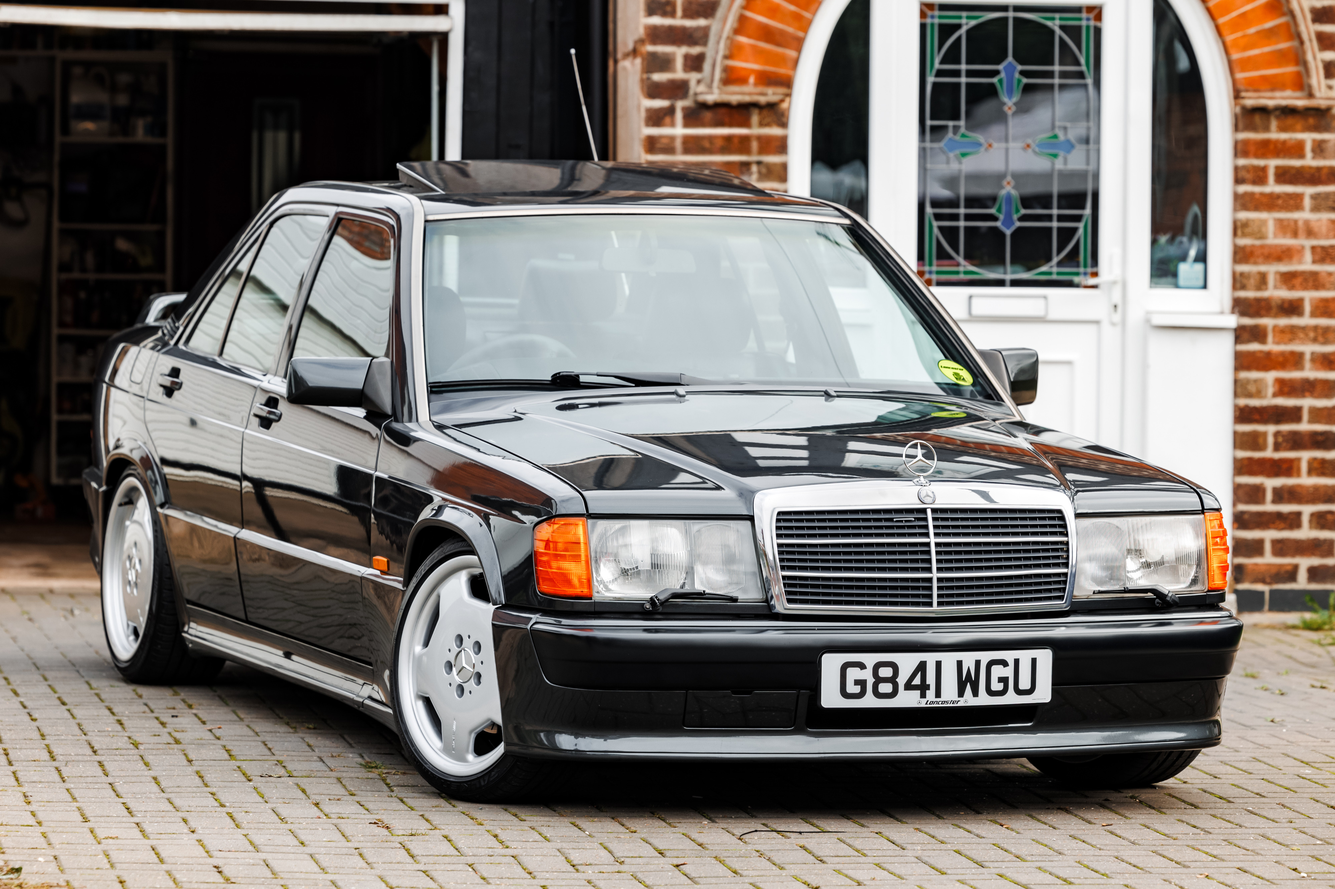
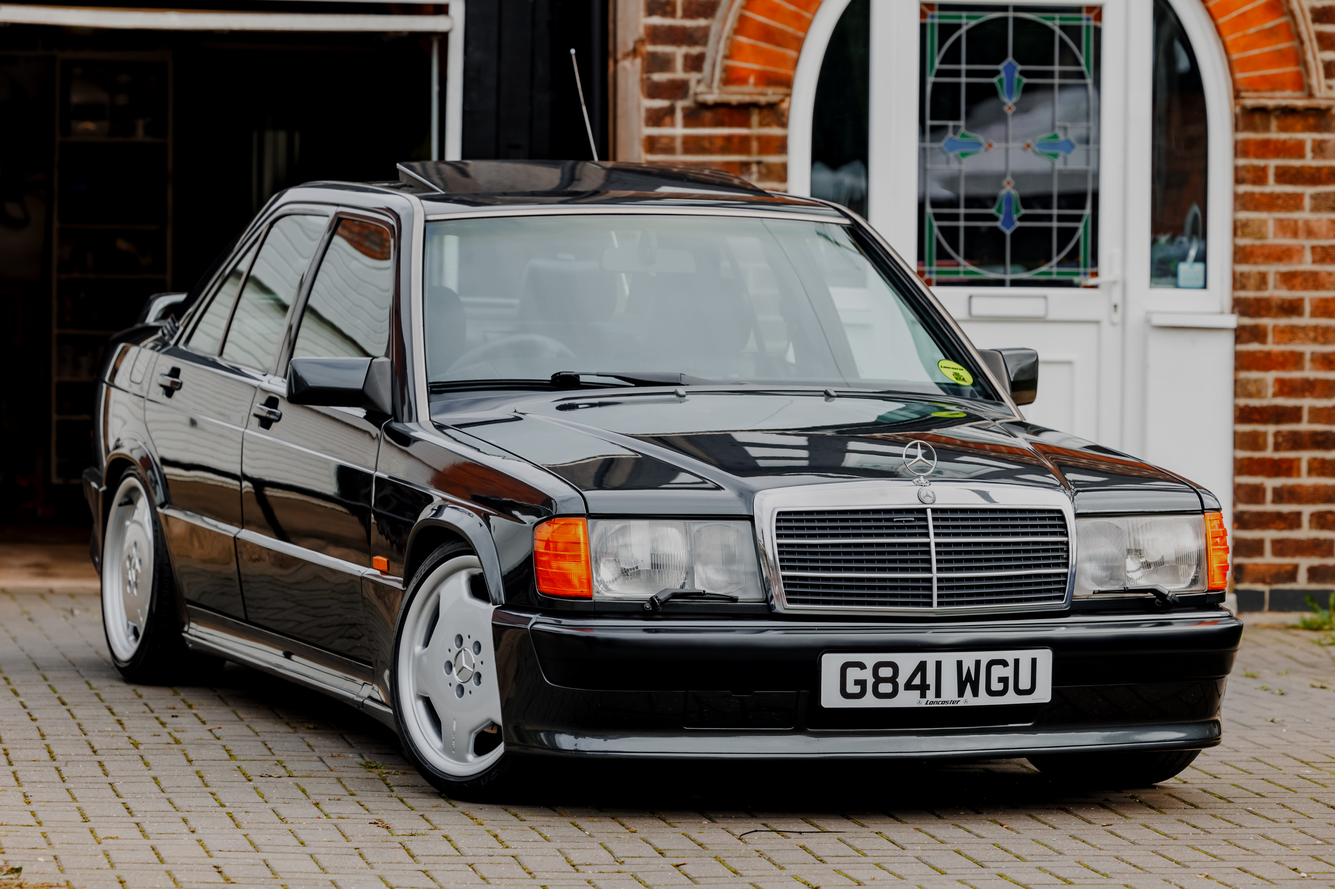
Brilho das imagens de cards ajustadas

diff --git a/components/cardList/cardList.css b/components/cardList/cardList.css
@@ -29,12 +29,13 @@
     width: 100%;
     height: 150%;
     object-fit: cover;
+    filter: brightness(0.75);
 }
 
 .imageContainer:hover{
     transform: scale(1.05);
     transition: transform 0.1s ease-in-out;
-    filter: brightness(1.75);
+    filter: brightness(1.20);
     display: flex;
 }
 
